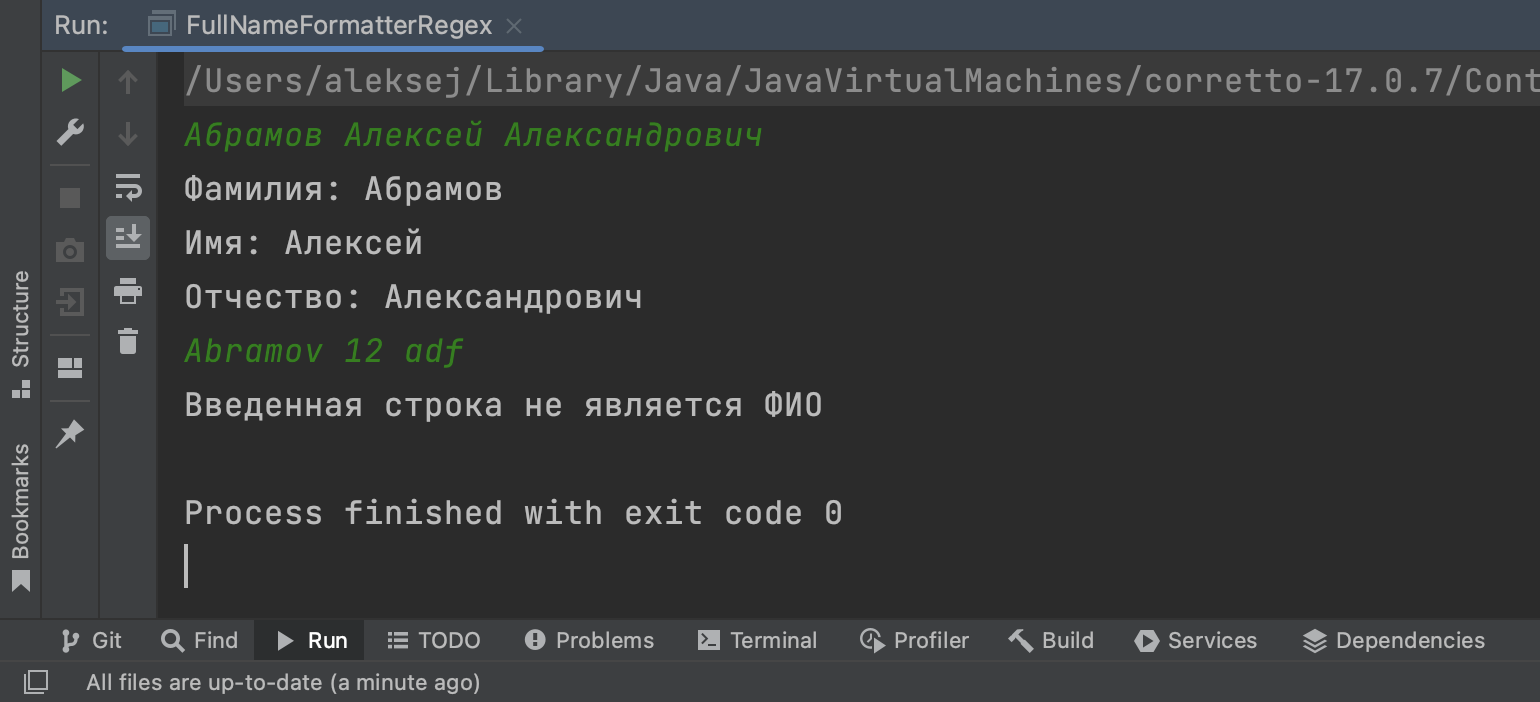
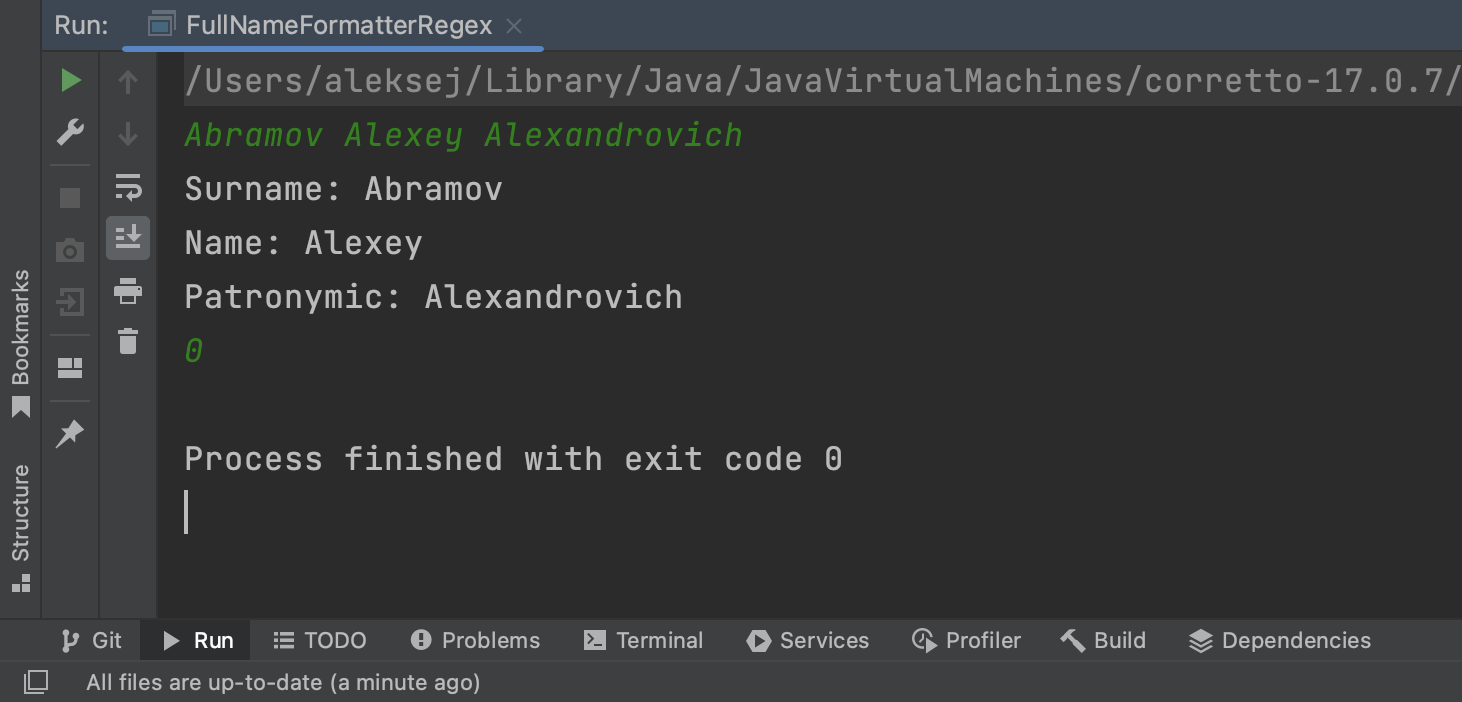
correct and update README.md

diff --git a/src/test/java/regex/TestNameFormatterRegex.java b/src/test/java/regex/TestNameFormatterRegex.java
@@ -62,32 +62,31 @@ public class TestNameFormatterRegex {
     }
 
     @Test
-    @DisplayName("Текст = Иванов Иван Иванович")
+    @DisplayName("Текст = Ivanov Ivan Ivanovich")
     void formatFullName() {
         launchApplication(
-                collectTestInput("Иванов Иван Иванович"),
+                collectTestInput("Ivanov Ivan Ivanovich"),
                 collectTestOutput(
-                        String.format("Фамилия: %s%nИмя: %s%nОтчество: %s", "Иванов", "Иван", "Иванович"))
+                        String.format("Surname: %s%nName: %s%nPatronymic: %s", "Ivanov", "Ivan", "Ivanovich"))
         );
     }
 
     @Test
-    @DisplayName("Текст = Салтыков-Щедрин Михаил Евграфович")
+    @DisplayName("Текст = Saltikov-Shedrin Mihail Evgenevich")
     void formatFullNameWithDoubleSurname() {
         launchApplication(
-                collectTestInput("Салтыков-Щедрин Михаил Евграфович"),
+                collectTestInput("Saltikov-Shedrin Mihail Evgenevich"),
                 collectTestOutput(
-                        String.format("Фамилия: %s%nИмя: %s%nОтчество: %s", "Салтыков-Щедрин", "Михаил",
-                                "Евграфович"))
+                        String.format("Surname: %s%nName: %s%nPatronymic: %s", "Saltikov-Shedrin", "Mihail", "Evgenevich"))
         );
     }
 
     @Test
-    @DisplayName("Текст = Иван Иван Иванович вв2ввв")
+    @DisplayName("Текст = Ivanov Ivan Ivanovich vv2vvv")
     void superfluousWord() {
         launchApplication(
-                collectTestInput("Иван Иван Иванович вв2ввв"),
-                collectTestOutput("Введенная строка не является ФИО"));
+                collectTestInput("Ivanov Ivan Ivanovich vv2vvv"),
+                collectTestOutput("The string entered is not a full name."));
     }
 
     @Test
@@ -95,15 +94,15 @@ public class TestNameFormatterRegex {
     void numberInput() {
         launchApplication(
                 collectTestInput("1111 2222 3333"),
-                collectTestOutput("Введенная строка не является ФИО"));
+                collectTestOutput("The string entered is not a full name."));
     }
 
     @Test
-    @DisplayName("Текст = Иван")
+    @DisplayName("Текст = Ivan")
     void oneWord() {
         launchApplication(
-                collectTestInput("Иван"),
-                collectTestOutput("Введенная строка не является ФИО"));
+                collectTestInput("Ivan"),
+                collectTestOutput("The string entered is not a full name."));
     }
 
     @Test

diff --git a/src/main/java/practice/regex/FullNameFormatterRegex.java b/src/main/java/practice/regex/FullNameFormatterRegex.java
@@ -14,15 +14,15 @@ public class FullNameFormatterRegex {
                 break;
             }
             String name = input.trim();
-            String regex = "([АаБбВвГгДдЕеЁёЖжЗзИиЙйКкЛлМмНнОоПпРрСсТтУуФфХхЦцЧчШшЩщЪъЫыЬьЭэЮюЯя -]{2,}){3}";
+            String regex = "([ABCDEFGHIJKLMNOPQRSTUVWXYZabcdefghijklmnopqrstuvwxyz -]{2,}){3}";
             if (!name.matches(regex)) {
-                System.out.println("Введенная строка не является ФИО");
+                System.out.println("The string entered is not a full name.");
                 break;
             }
-            String[] name1 = name.split("\\s");
-            System.out.println("Фамилия: " + name1[0]);
-            System.out.println("Имя: " + name1[1]);
-            System.out.println("Отчество: " + name1[2]);
+            String[] array = name.split("\\s");
+            System.out.println("Surname: " + array[0]);
+            System.out.println("Name: " + array[1]);
+            System.out.println("Patronymic: " + array[2]);
         }
     }
 

diff --git a/src/test/java/regex/TestPhoneCleanerRegex.java b/src/test/java/regex/TestPhoneCleanerRegex.java
@@ -38,7 +38,7 @@ class TestPhoneCleanerRegex {
   /**
    * string when phone number not valid
    */
-  private static final String NOT_VALID_PHONE_RESPONSE = "Неверный формат номера\n";
+  private static final String NOT_VALID_PHONE_RESPONSE = "Invalid number format.\n";
   /**
    * string at which the testing program will terminate
    */

diff --git a/src/main/java/practice/regex/PhoneCleanerRegex.java b/src/main/java/practice/regex/PhoneCleanerRegex.java
@@ -25,7 +25,7 @@ public class PhoneCleanerRegex {
         continue;
       }
       if (!phoneNumber.matches(regex3)) {
-        System.out.println("Неверный формат номера");
+        System.out.println("Invalid number format.");
         break;
       }
       if (phoneNumber.charAt(0) == '8') {
